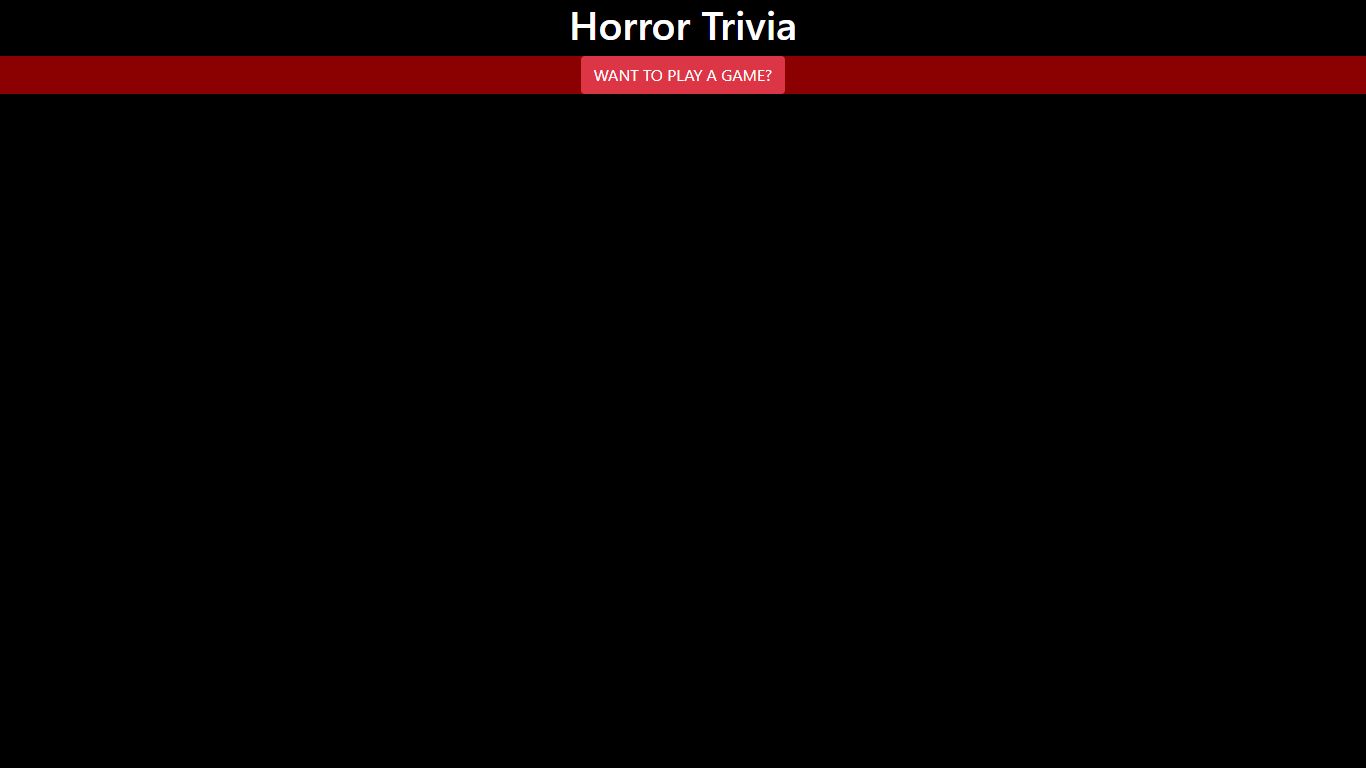
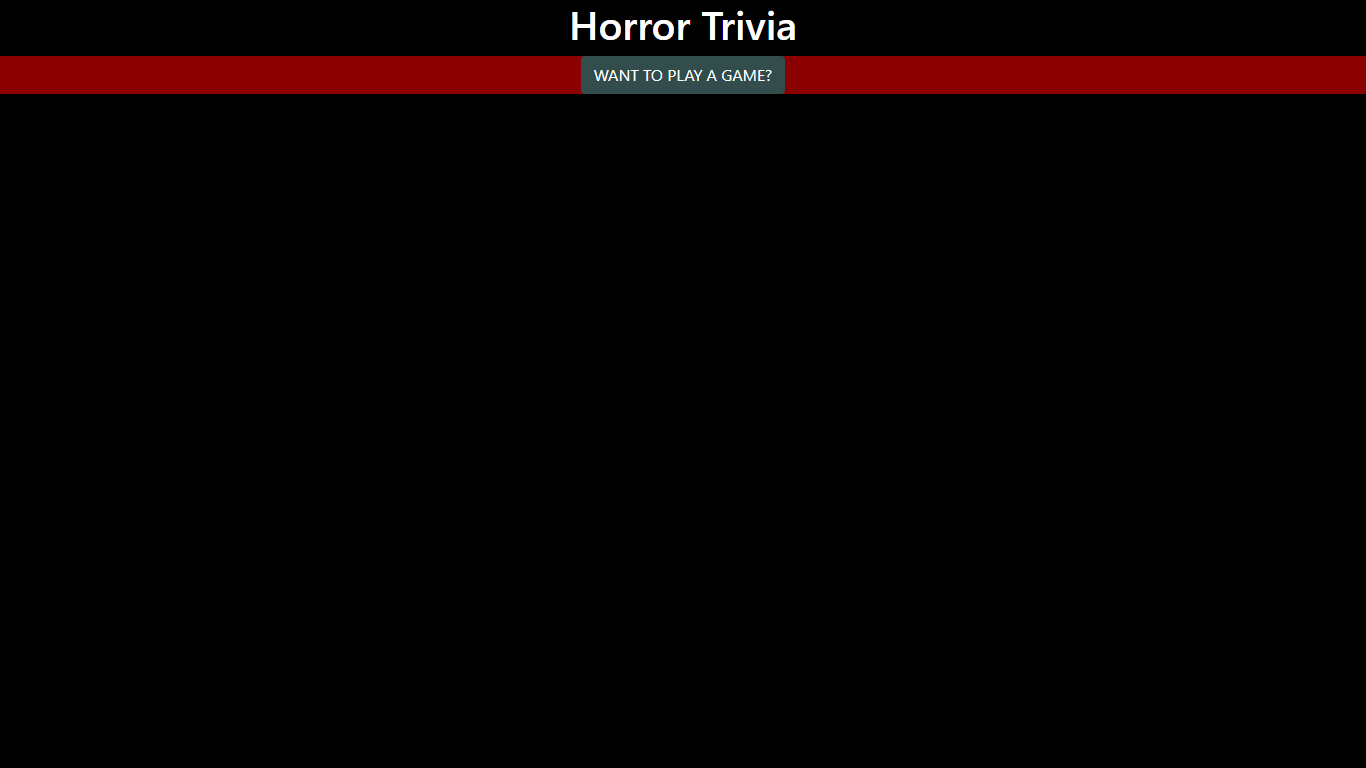
changed button colors, made done button a bootstrap btn and added padding-top to it, and added updated readme screenshots

Changed region(s): [[0.3997, 0.0625, 0.5842, 0.125]]

diff --git a/index.html b/index.html
@@ -19,7 +19,7 @@
         <h1>Horror Trivia</h1>
         <div id="insidecontainer">
             <div id="gamebox">
-                <button id="start" type="button" class="btn btn-danger text-align-justify">WANT TO PLAY A GAME?</button>
+                <button id="start" type="button" class="btn text-align-justify">WANT TO PLAY A GAME?</button>
             </div>
         </div>
         <div id="answers"></div>

diff --git a/assets/javascript/app.js b/assets/javascript/app.js
@@ -70,7 +70,7 @@ var game = {
                 panel.append('<input type="radio" name ="question' + '-' + i + '"value="' + questions[i].choices[j] + '">' + questions[i].choices[j]);
             }
         }
-        panel.append("<button id='done'>Done!</button>");
+        panel.append("<div><div id='makeBlack'><button class='btn' id='done'>Done!</button></div></div>");
     },
 
     done: function () {

diff --git a/assets/css/style.css b/assets/css/style.css
@@ -12,6 +12,15 @@ body {
     background-color: darkred;
 }
 
+.btn {
+    background-color: #334d4d;
+}
+
+#makeBlack {
+    background-color: black;
+    padding-top: 10px;
+}
+
 h2 {
     color: white;
 }
